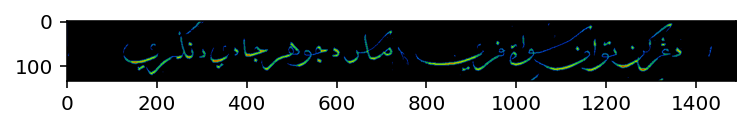
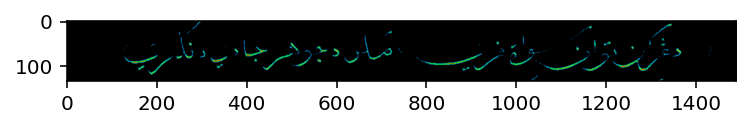
two ways to find edges

diff --git a/distanceskel.py b/distanceskel.py
@@ -2,29 +2,51 @@ import numpy as np
 import matplotlib.pyplot as plt
 from scipy import ndimage as ndi
 from skimage.morphology import skeletonize
-from skimage import io, color, filters
+from skimage import io, color, filters, morphology
 
 # 1. Load your image
-# Replace 'your_image.jpg' with your actual file path
 path = 'p01v1-line2.png' 
 img = io.imread(path)
 
 # 2. Convert to grayscale and Binarize
-# We need the object to be white (1) and background black (0)
 gray_img = color.rgb2gray(img)
 plt.imshow(gray_img)
 
+# thresholding, coba juga local thresholding macam
+# thresh_local = cv2.adaptiveThreshold(img, 255, cv2.ADAPTIVE_THRESH_GAUSSIAN_C,cv2.THRESH_BINARY, 11, 2)
 thresh = filters.threshold_otsu(gray_img)
 binary = gray_img < thresh
 plt.imshow(binary, cmap='gray')
-
-# NOTE: If your object is darker than the background, 
-# you might need to flip the logic: binary = gray_img < thresh
 
 # 3. Compute Skeleton and Distance Transform
 skeleton = skeletonize(binary)
 plt.imshow(skeleton, cmap='gray')
 
-distance_map = ndi.distance_transform_edt(binary)
-plt.imshow(distance_map, cmap='nipy_spectral')
+from skimage import feature
 
+# Find edges using Canny
+edges = feature.canny(binary)
+plt.imshow(edges, cmap='gray')
+
+# edges using erosion
+eroded = morphology.binary_erosion(binary)
+edges = binary ^ eroded  # These are the pixels at the very boundary
+
+# 3. Calculate Distance to Edges for ALL foreground pixels
+# We create a mask where edges are 0 and everything else is 1.
+# distance_transform_edt calculates the distance to the nearest 0.
+edge_mask = np.ones_like(binary, dtype=float)
+edge_mask[edges] = 0
+
+# Compute the distance transform
+distance_to_edges = ndi.distance_transform_edt(edge_mask)
+
+# 4. Mask the result so we only see distances INSIDE the object
+# (This sets the background pixels to 0)
+foreground_distance_map = distance_to_edges * binary
+
+# 5. Visualization
+plt.imshow(foreground_distance_map, cmap='nipy_spectral')
+#plt.axis('off')
+#plt.colorbar(label='Distance to nearest edge (pixels)')
+#plt.title('Distance Transform: All Foreground Pixels to Edges')
